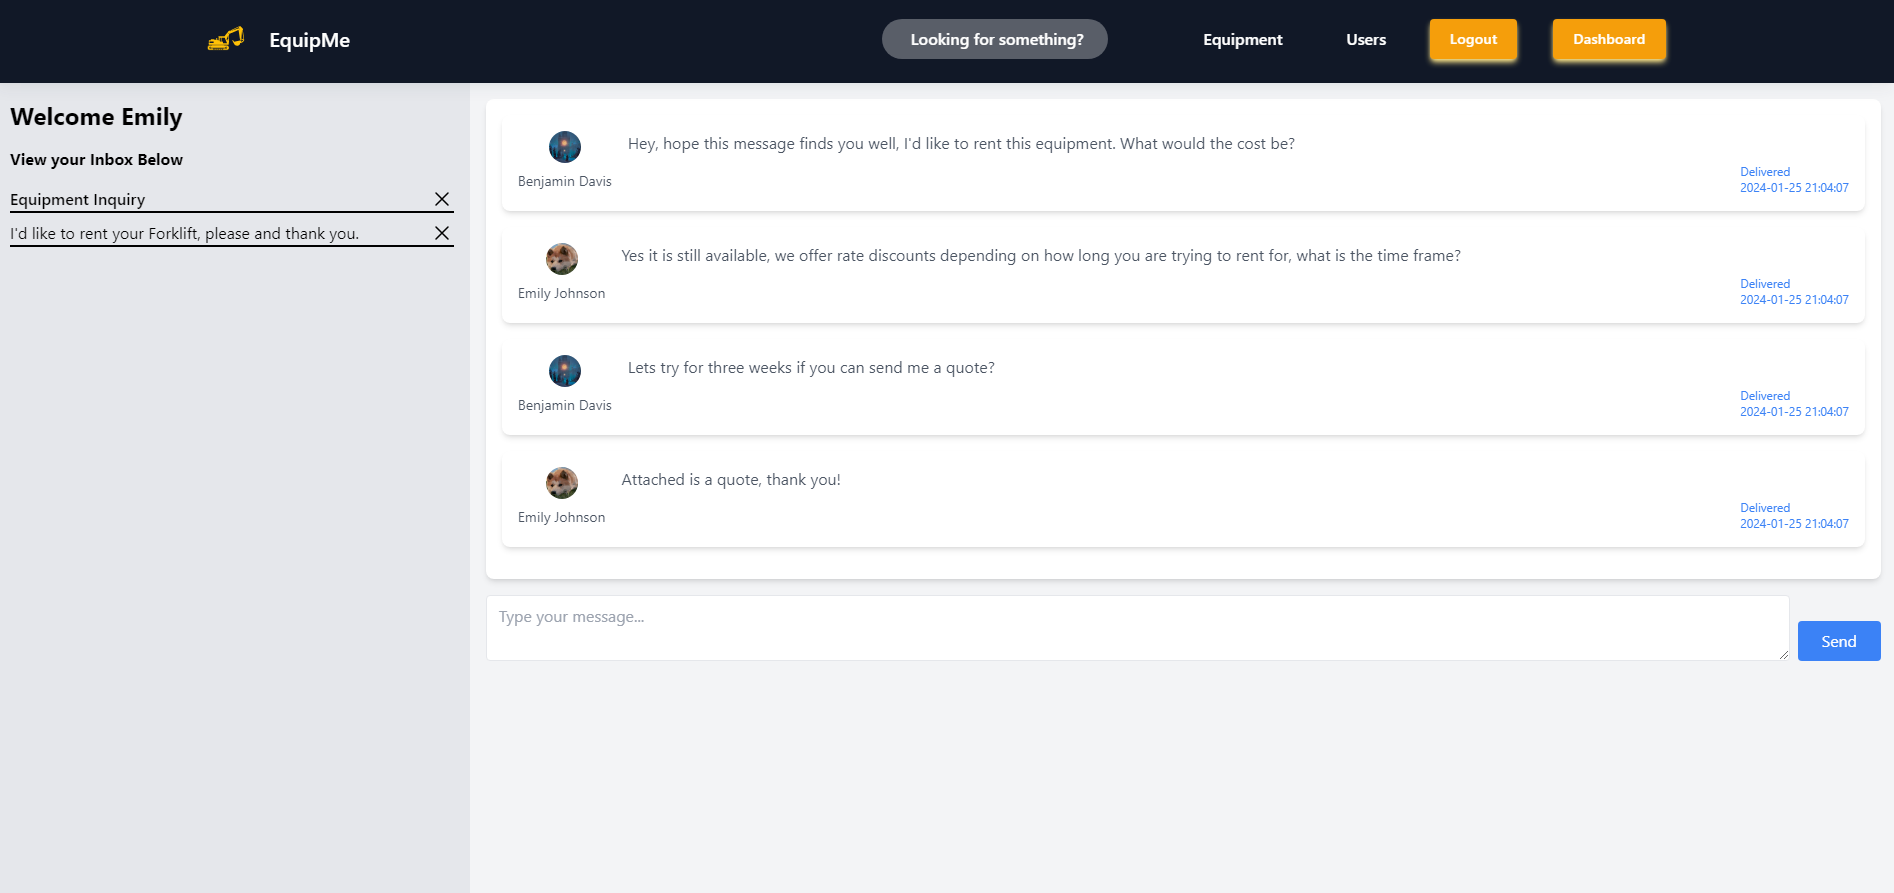
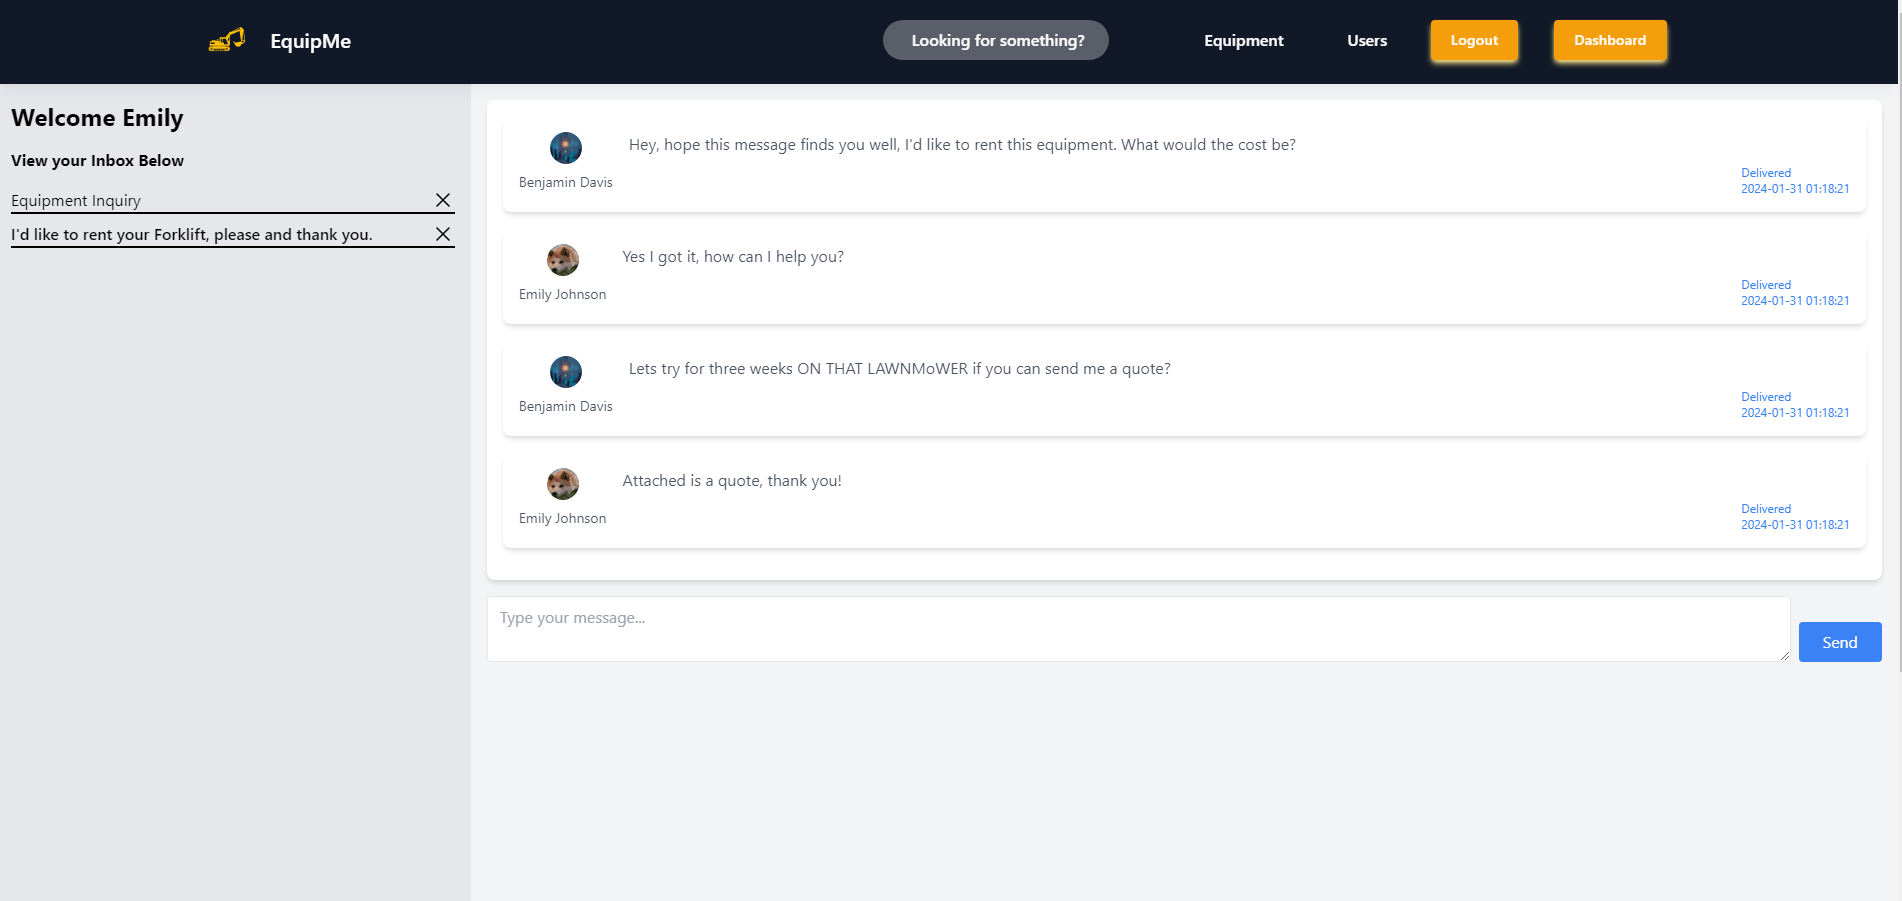
all equipMeMessaging set up

diff --git a/src/ProjectDisplays/EquipMe/EquipMeMessagingComponents/EquipMeMessagingPartTwo.js b/src/ProjectDisplays/EquipMe/EquipMeMessagingComponents/EquipMeMessagingPartTwo.js
@@ -1,5 +1,6 @@
 import React, { useState } from 'react';
-import testPhoto from '../../../Assets/testPhoto.PNG'
+import EquipMeOwnerInboxImage from '../../../Assets/ProjectImages/EquipMe/EquipMeMessaging/EquipMeOwnerInbox.PNG'
+// import testPhoto from '../../../Assets/testPhoto.PNG'
 
 function EquipMeMessagingOwnerToUser({openModal, goToPreviousPage, goToNextPage, images, selectedIndex, selectedImage, closeModal, handleModalContentClick, handleOverlayClick, isModalOpen, setSelectedIndex}) {
 
@@ -20,7 +21,7 @@ function EquipMeMessagingOwnerToUser({openModal, goToPreviousPage, goToNextPage,
       <div className="flex flex-col gap-8 lg:flex-row lg:gap-20">
       <div className="relative group cursor-pointer">
       
-      <img alt="Equip Me User To Owner" src={testPhoto} className="inline-block h-full max-h-[428px] w-full max-w-md object-fill lg:max-w-2xl" />
+      <img alt="Equip Me User To Owner" src={EquipMeOwnerInboxImage} className="inline-block h-full max-h-[428px] w-full max-w-md object-fill lg:max-w-2xl" />
 
       <div onClick={openModal} className="rounded-xl absolute inset-0 bg-black bg-opacity-50 flex justify-center items-center group-hover:opacity-100 opacity-0 transition-opacity"> 
             <p className="text-white text-xl border p-4 rounded-md">   View    </p>
@@ -28,28 +29,21 @@ function EquipMeMessagingOwnerToUser({openModal, goToPreviousPage, goToNextPage,
       </div>
 
       {selectedImage && (
-            <div id="modal-overlay" className="fixed top-0 left-0 h-full w-full flex items-center justify-center p-4 bg-black bg-opacity-50 z-50" onClick={handleOverlayClick}>
-            <div className=" relative rounded-lg bg-white max-w-4xl max-h-full overflow-auto p-6" onClick={handleModalContentClick}>
-            <button
-                onClick={closeModal}
-                className="absolute top-0 right-0 mt-4 mr-4 px-2 py-2 bg-gray-300 rounded hover:bg-red-200"
-                >
-                  <svg xmlns="http://www.w3.org/2000/svg" width="16" height="16" fill="white" className="bi bi-x-circle" viewBox="0 0 16 16">
-                    <path d="M8 15A7 7 0 1 1 8 1a7 7 0 0 1 0 14zm0 1A8 8 0 1 0 8 0a8 8 0 0 0 0 16z"/>
-                    <path d="M4.646 4.646a.5.5 0 0 1 .708 0L8 7.293l2.646-2.647a.5.5 0 0 1 .708.708L8.707 8l2.647 2.646a.5.5 0 0 1-.708.708L8 8.707l-2.646 2.647a.5.5 0 0 1-.708-.708L7.293 8 4.646 5.354a.5.5 0 0 1 0-.708z"/>
-                  </svg>
+        <div id="modal-overlay" className="fixed top-0 left-0 h-full w-full flex items-center justify-center p-4 bg-black bg-opacity-50 z-50" onClick={handleOverlayClick}>
+          <div className="relative rounded-lg bg-white max-w-7xl max-h-full overflow-auto p-6" onClick={handleModalContentClick}>
+            <button onClick={closeModal} className="absolute top-0 right-0 mt-4 mr-4 px-2 py-2 bg-gray-300 rounded hover:bg-red-200">
+              <svg xmlns="http://www.w3.org/2000/svg" width="16" height="16" fill="white" className="bi bi-x-circle" viewBox="0 0 16 16">
+                <path d="M8 15A7 7 0 1 1 8 1a7 7 0 0 1 0 14zm0 1A8 8 0 1 0 8 0a8 8 0 0 0 0 16z"/>
+                <path d="M4.646 4.646a.5.5 0 0 1 .708 0L8 7.293l2.646-2.647a.5.5 0 0 1 .708.708L8.707 8l2.647 2.646a.5.5 0 0 1-.708.708L8 8.707l-2.646 2.647a.5.5 0 0 1-.708-.708L7.293 8 4.646 5.354a.5.5 0 0 1 0-.708z"/>
+              </svg>
             </button>
-                <img
-                src={images[selectedIndex]} // The full-size image path
-                alt="EquipMe home page enlarged"
-                className="w-full h-auto mx-auto"
-                />
-                <div className="bg-gray-200 px-4 py-2 rounded-lg"> 
-                <p className="text-center"> EquipMe Messaging System </p>
-                </div> 
-              </div>
-            </div>
-            )}
+            <img src={images[selectedIndex]} alt="EquipMe home page enlarged" className="w-full h-auto mx-auto" />
+            <div className="bg-gray-200 px-4 py-2 rounded-lg"> 
+              <p className="text-center"> EquipMe Messaging System </p>
+            </div> 
+          </div>
+        </div>
+      )}
 
         <div className="flex flex-col gap-4">
           <span className="flex max-w-sm rounded-md p-4 text-[#222222]  [box-shadow:rgba(0,_0,_0,_0.05)_0px_0px_10px] cursor-pointer" onClick={() => changeIndex(1)}>

diff --git a/src/ProjectDisplays/EquipMe/EquipMeMessagingComponents/EquipMeMessagingPartThree.js b/src/ProjectDisplays/EquipMe/EquipMeMessagingComponents/EquipMeMessagingPartThree.js
@@ -1,5 +1,6 @@
 import React, { useState } from 'react';
-import testPhoto from '../../../Assets/testPhoto.PNG'
+// import testPhoto from '../../../Assets/testPhoto.PNG'
+import EquipMeUserInbox from '../../../Assets/ProjectImages/EquipMe/EquipMeMessaging/EquipMeUserInbox.PNG'
 
 function EquipMeMessagingUserToOwner({openModal, goToPreviousPage, goToNextPage, images, selectedIndex, selectedImage, closeModal, handleModalContentClick, handleOverlayClick, isModalOpen, setSelectedIndex}) {
 
@@ -20,7 +21,7 @@ function EquipMeMessagingUserToOwner({openModal, goToPreviousPage, goToNextPage,
       <div className="flex flex-col gap-8 lg:flex-row lg:gap-20">
       <div className="relative group cursor-pointer">
       
-      <img alt="Equip Me User To Owner" src={testPhoto} className="inline-block h-full max-h-[428px] w-full max-w-md object-fill lg:max-w-2xl" />
+      <img alt="Equip Me User To Owner" src={EquipMeUserInbox} className="inline-block h-full max-h-[428px] w-full max-w-md object-fill lg:max-w-2xl" />
 
       <div onClick={openModal} className="rounded-xl absolute inset-0 bg-black bg-opacity-50 flex justify-center items-center group-hover:opacity-100 opacity-0 transition-opacity"> 
             <p className="text-white text-xl border p-4 rounded-md">   View    </p>
@@ -28,28 +29,21 @@ function EquipMeMessagingUserToOwner({openModal, goToPreviousPage, goToNextPage,
       </div>
 
       {selectedImage && (
-            <div id="modal-overlay" className="fixed top-0 left-0 h-full w-full flex items-center justify-center p-4 bg-black bg-opacity-50 z-50" onClick={handleOverlayClick}>
-            <div className=" relative rounded-lg bg-white max-w-4xl max-h-full overflow-auto p-6" onClick={handleModalContentClick}>
-            <button
-                onClick={closeModal}
-                className="absolute top-0 right-0 mt-4 mr-4 px-2 py-2 bg-gray-300 rounded hover:bg-red-200"
-                >
-                  <svg xmlns="http://www.w3.org/2000/svg" width="16" height="16" fill="white" className="bi bi-x-circle" viewBox="0 0 16 16">
-                    <path d="M8 15A7 7 0 1 1 8 1a7 7 0 0 1 0 14zm0 1A8 8 0 1 0 8 0a8 8 0 0 0 0 16z"/>
-                    <path d="M4.646 4.646a.5.5 0 0 1 .708 0L8 7.293l2.646-2.647a.5.5 0 0 1 .708.708L8.707 8l2.647 2.646a.5.5 0 0 1-.708.708L8 8.707l-2.646 2.647a.5.5 0 0 1-.708-.708L7.293 8 4.646 5.354a.5.5 0 0 1 0-.708z"/>
-                  </svg>
+        <div id="modal-overlay" className="fixed top-0 left-0 h-full w-full flex items-center justify-center p-4 bg-black bg-opacity-50 z-50" onClick={handleOverlayClick}>
+          <div className="relative rounded-lg bg-white max-w-7xl max-h-full overflow-auto p-6" onClick={handleModalContentClick}>
+            <button onClick={closeModal} className="absolute top-0 right-0 mt-4 mr-4 px-2 py-2 bg-gray-300 rounded hover:bg-red-200">
+              <svg xmlns="http://www.w3.org/2000/svg" width="16" height="16" fill="white" className="bi bi-x-circle" viewBox="0 0 16 16">
+                <path d="M8 15A7 7 0 1 1 8 1a7 7 0 0 1 0 14zm0 1A8 8 0 1 0 8 0a8 8 0 0 0 0 16z"/>
+                <path d="M4.646 4.646a.5.5 0 0 1 .708 0L8 7.293l2.646-2.647a.5.5 0 0 1 .708.708L8.707 8l2.647 2.646a.5.5 0 0 1-.708.708L8 8.707l-2.646 2.647a.5.5 0 0 1-.708-.708L7.293 8 4.646 5.354a.5.5 0 0 1 0-.708z"/>
+              </svg>
             </button>
-                <img
-                src={images[selectedIndex]} // The full-size image path
-                alt="EquipMe home page enlarged"
-                className="w-full h-auto mx-auto"
-                />
-                <div className="bg-gray-200 px-4 py-2 rounded-lg"> 
-                <p className="text-center"> EquipMe Messaging System </p>
-                </div> 
-              </div>
-            </div>
-            )}
+            <img src={images[selectedIndex]} alt="EquipMe home page enlarged" className="w-full h-auto mx-auto" />
+            <div className="bg-gray-200 px-4 py-2 rounded-lg"> 
+              <p className="text-center"> EquipMe Messaging System </p>
+            </div> 
+          </div>
+        </div>
+      )}
 
         <div className="flex flex-col gap-4">
           <span className="flex max-w-sm rounded-md p-4 text-[#222222]  [box-shadow:rgba(0,_0,_0,_0.05)_0px_0px_10px] cursor-pointer" onClick={() => changeIndex(1)}>

diff --git a/src/ProjectDisplays/EquipMe/EquipMeDisplay.js b/src/ProjectDisplays/EquipMe/EquipMeDisplay.js
@@ -1,10 +1,14 @@
 import React, { useState, useEffect } from "react"
 import equipmeHomeImage from '../../Assets/ProjectImages/EquipMe/equipmeHome.PNG'
-// import EquipMeMessagingImage from '../../Assets/ProjectImages/EquipMe/EquipMeInternalMessagingSystem.PNG'
+
+// Images
 import EquipMeMessagingImage from '../../Assets/ProjectImages/EquipMe/EquipMeMessaging/EquipMeUserInbox.PNG'
+import EquipMeMessagingOwnerToUserImage from '../../Assets/ProjectImages/EquipMe/EquipMeMessaging/EquipMeOwnerInbox.PNG'
+import EquipMeMessagingUserToOwnerImage from '../../Assets/ProjectImages/EquipMe/EquipMeMessaging/EquipMeUserInbox.PNG'
+
 import testPhoto from '../../Assets/testPhoto.PNG'
 
-//Individual Display pages as to avoid having a backend / delay
+// Individual Display pages as to avoid having a backend / delay
 import EquipMeTestDisplay from "./EquipMeTestDisplay"
 import EquipMeMessagingDisplay from "./EquipMeMessagingComponents/EquipMeMessaging"
 import EquipMeMessagingUserToOwner from "./EquipMeMessagingComponents/EquipMeMessagingPartTwo"
@@ -20,7 +24,8 @@ function EquipMeDisplay(){
     const images = [
       equipmeHomeImage,
       EquipMeMessagingImage,
-      testPhoto,
+      EquipMeMessagingOwnerToUserImage,
+      EquipMeMessagingUserToOwnerImage,
     ]
 
     const projectDisplayComponents = [
